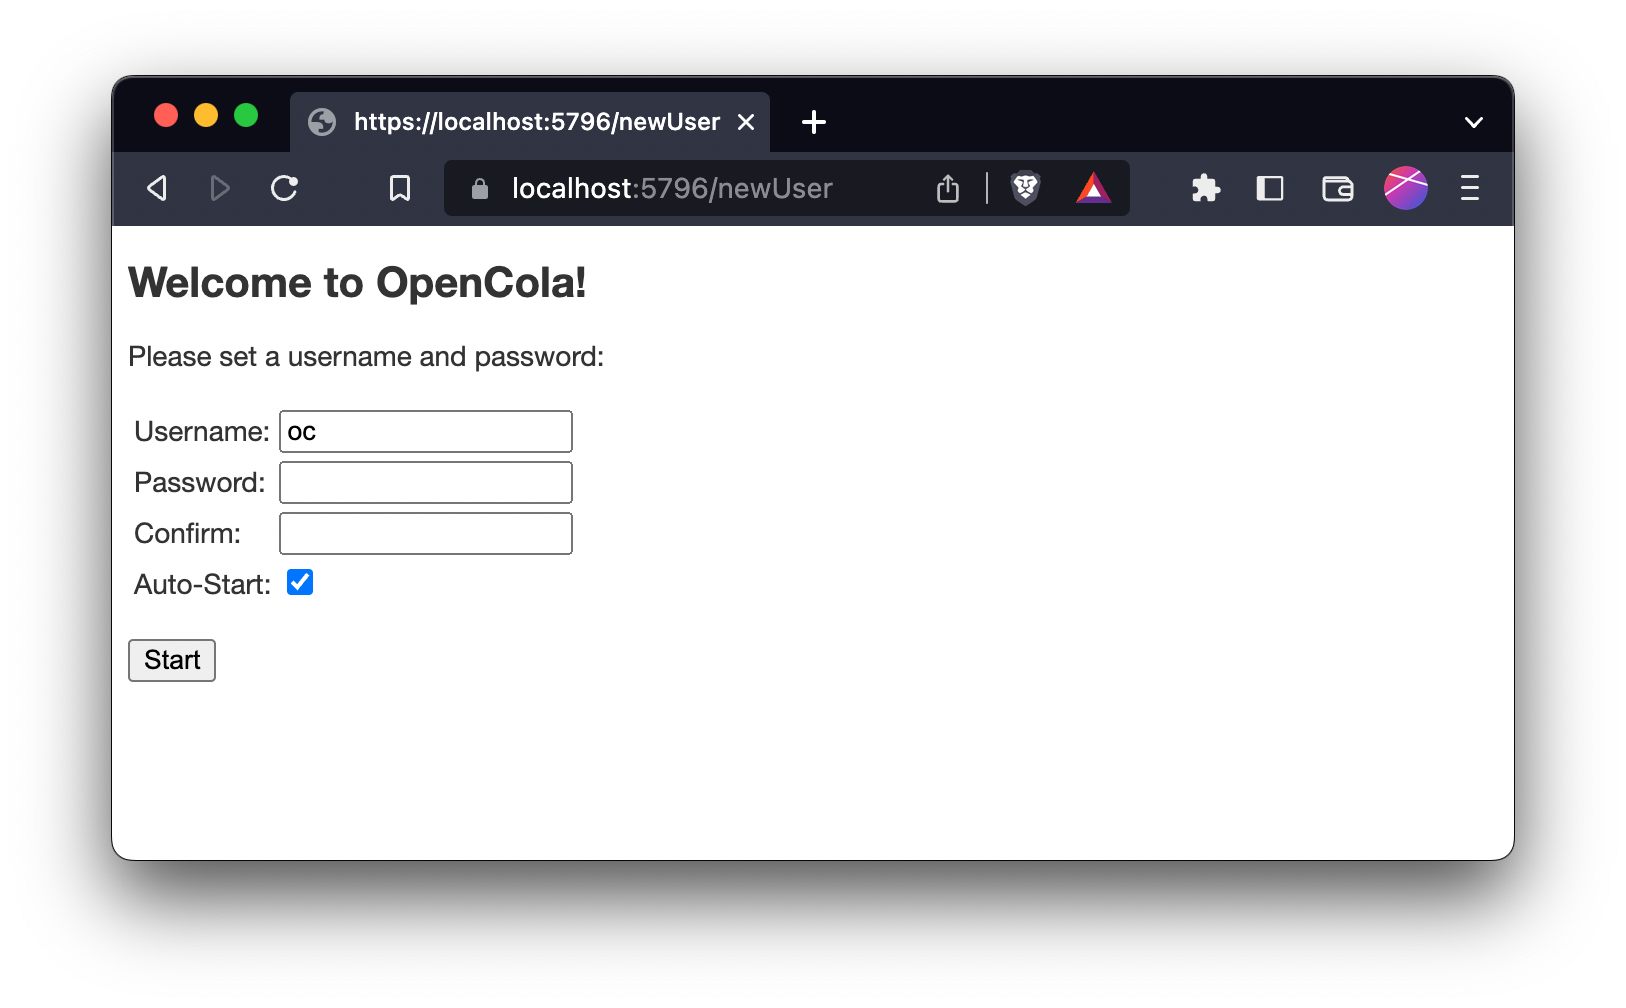
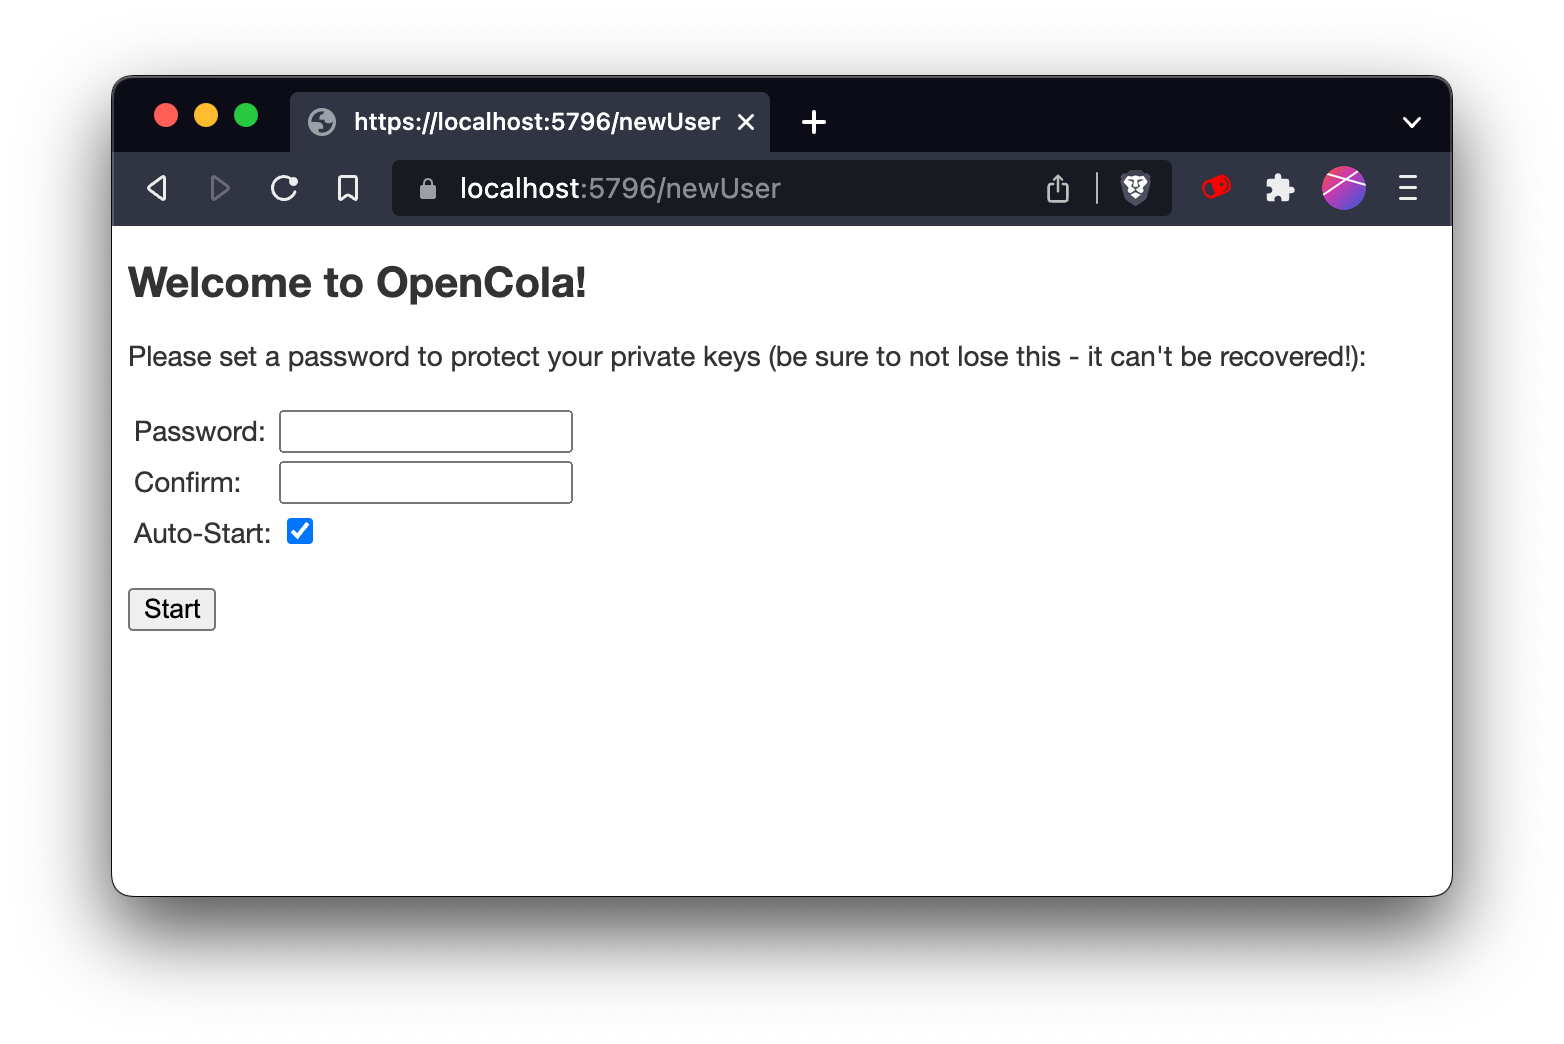
Update new user image (removed username)

Changed region(s): [[0.0614, 0.0615, 0.9514, 0.8611]]

diff --git a/docs/setting-up.md b/docs/setting-up.md
@@ -4,7 +4,7 @@
 
 After starting OpenCola and installing certificates, you will see:
 <img src="img/new-user.png" width="800"/>
-Enter any username you want (it is only seen by you and used to log in), a password and confirm it. 
+Enter a password and confirm it. 
 
 <p> <strong>*** Save this password somewhere safe. If you lose it, you can reocover your data, but your identity will be
 lost and you will have to reconnect with any peers ***</strong> </p>
